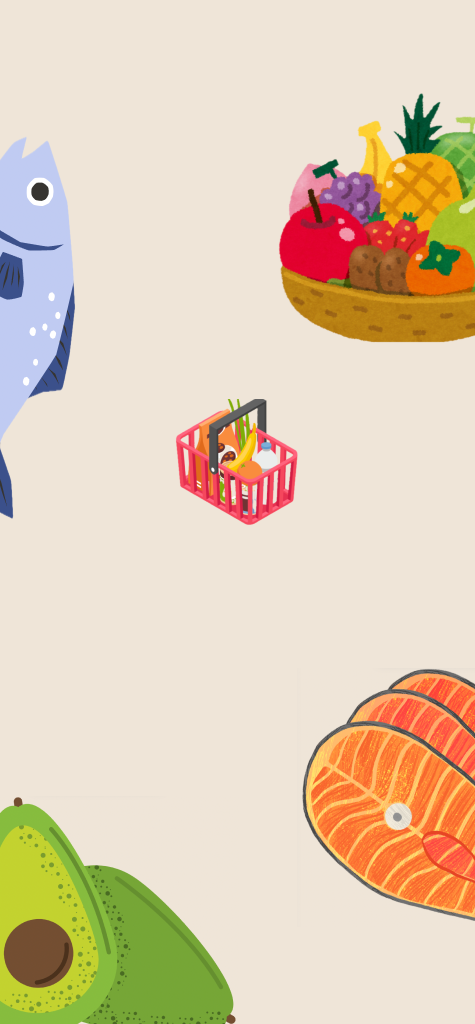
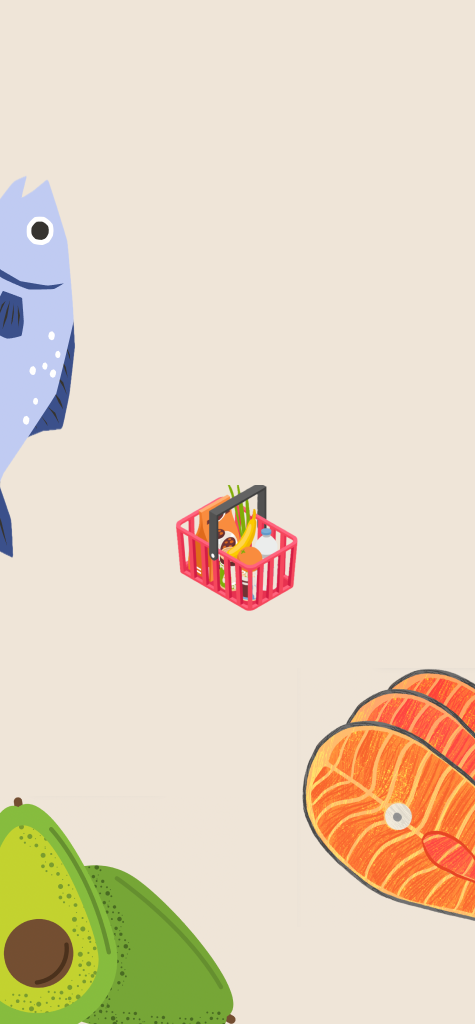
ajout background recipe + home

Changed region(s): [[0.5895, 0.0938, 1.0, 0.3438], [0.3537, 0.375, 0.6484, 0.5938], [0.0, 0.125, 0.1768, 0.5625]]

diff --git a/screens/RecipesScreen.js b/screens/RecipesScreen.js
@@ -3,7 +3,7 @@ import { View, Text, StyleSheet, Image, ImageBackground } from 'react-native';
 
 const RecipesScreen = () => {
     return (
-        <ImageBackground source={require('../assets/backgroundMenu.png')} style={styles.background}>
+        <ImageBackground source={require('../assets/backgroundRecipe.png')} style={styles.background}>
         <View style={styles.container}>
             <Image source={require('../assets/Squirrel/Heureux.png')} style={styles.squirrel} />
             <View>
